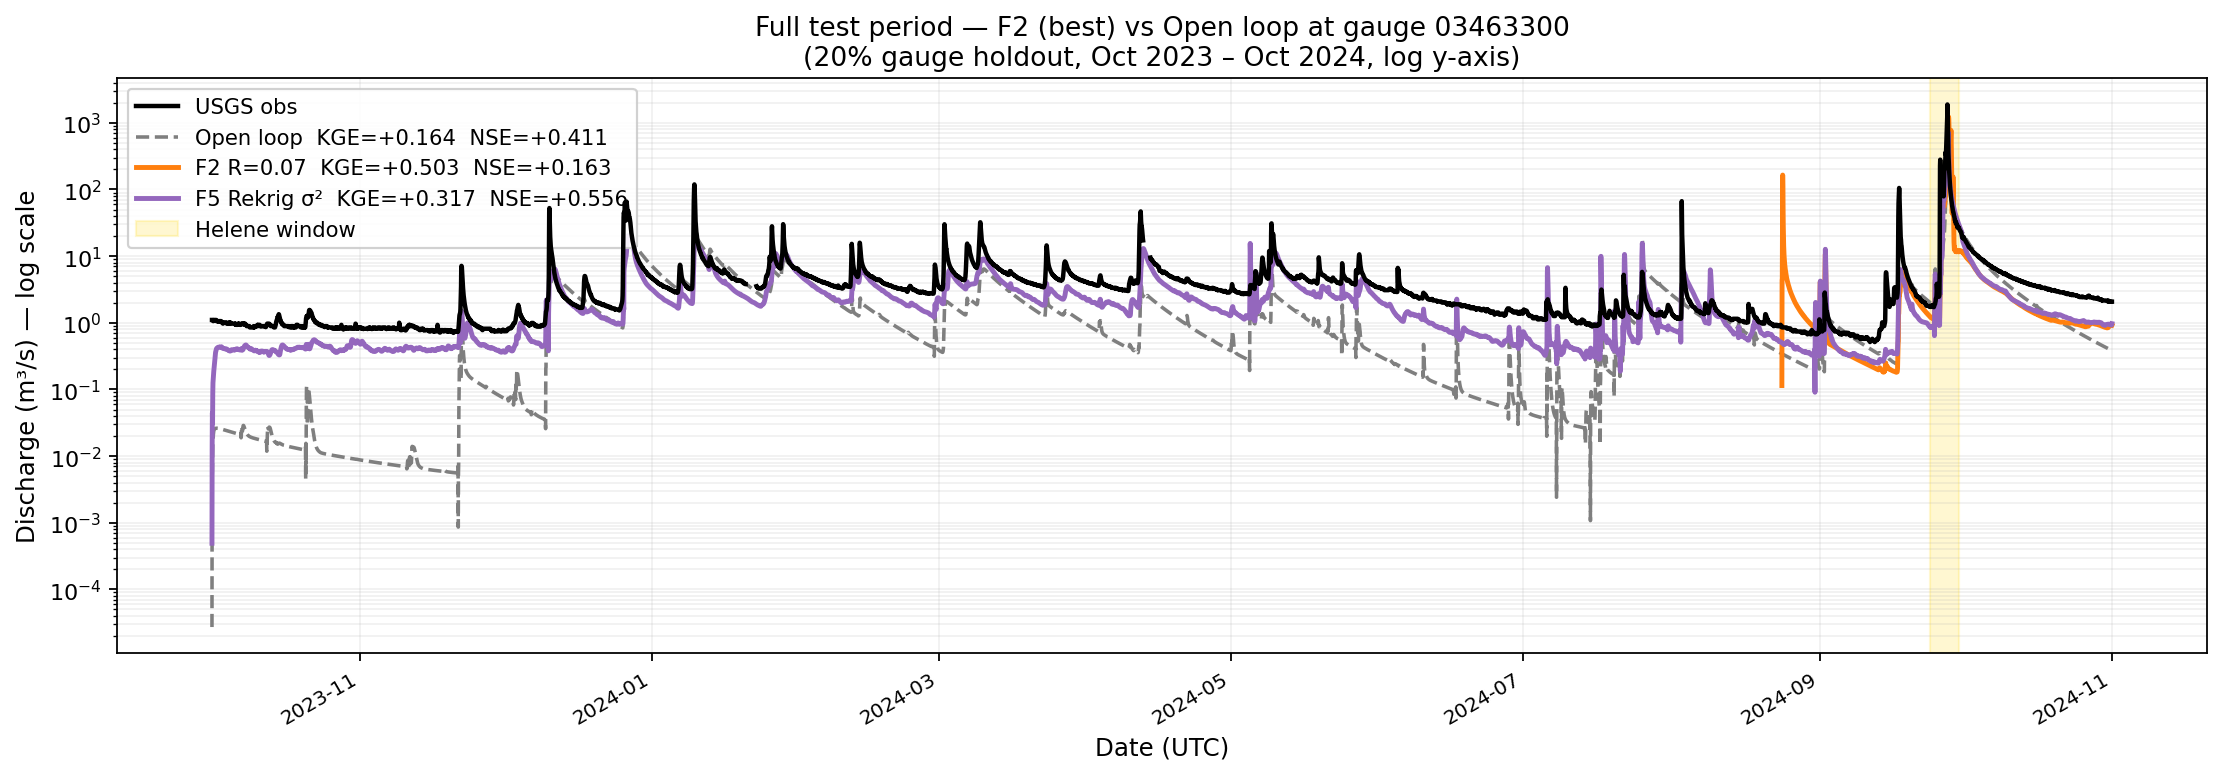
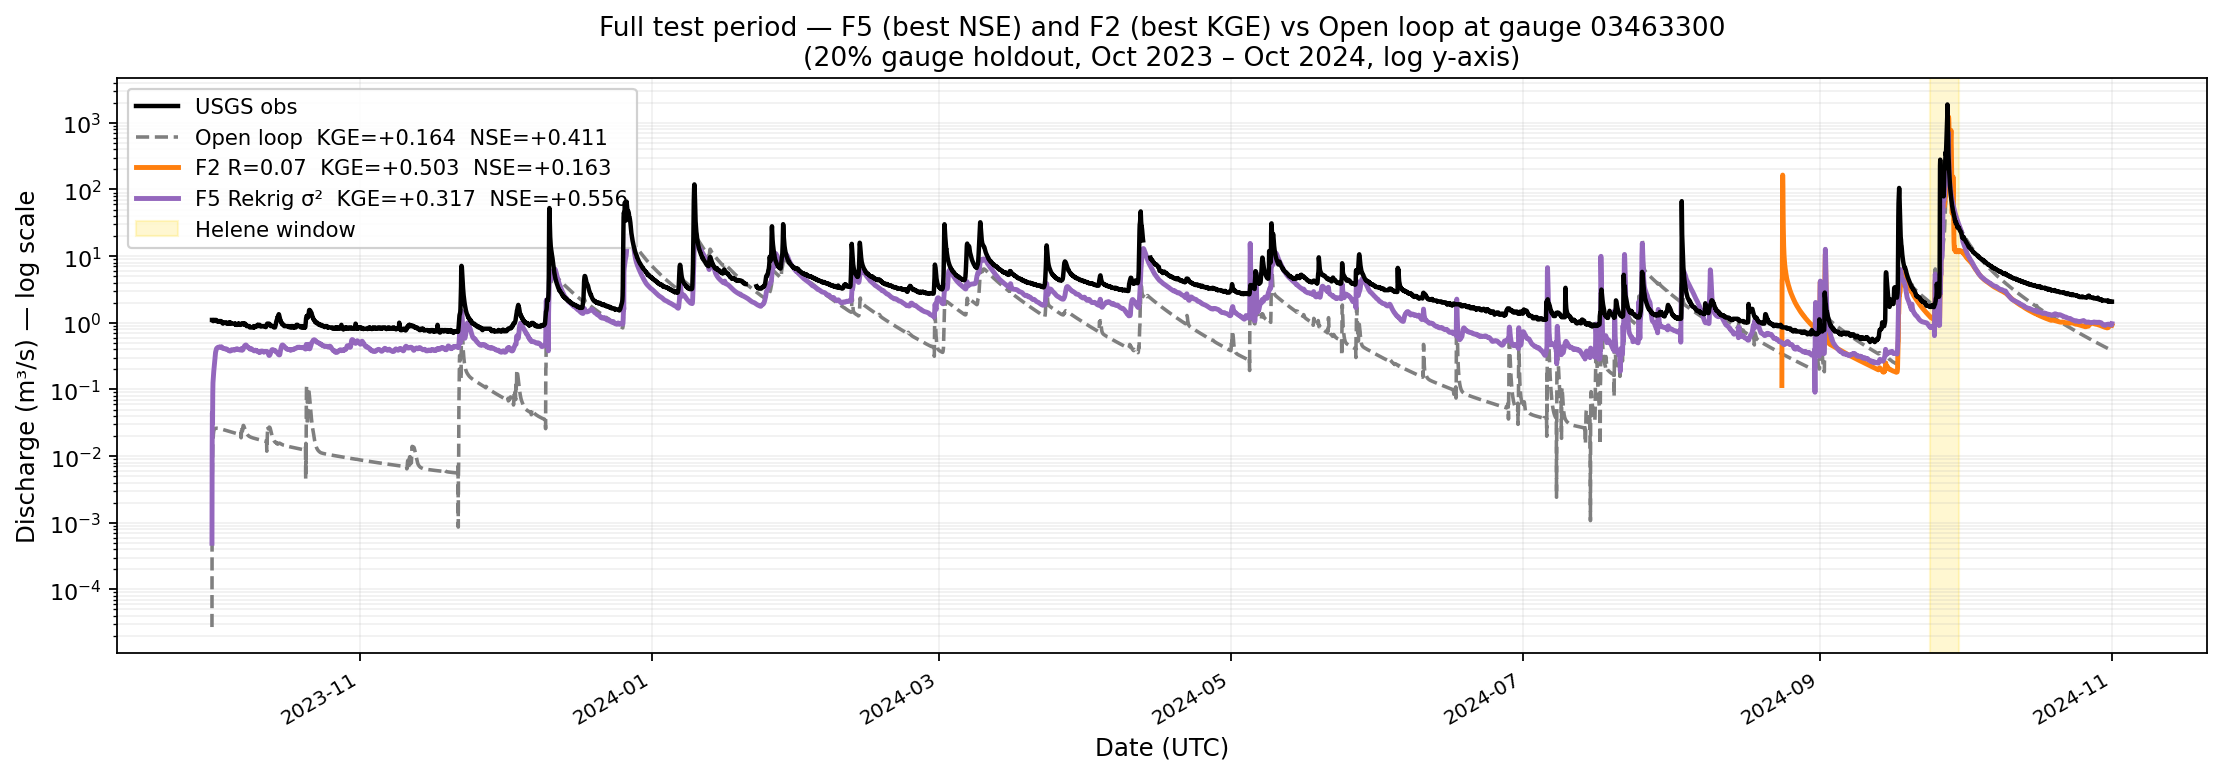
fix view1 plot title; add F5 lead-time NSE evaluation scripts (20pct holdout)
- update view1_full_log_f2_vs_ol.png: title now reads
  'F5 (best NSE) and F2 (best KGE) vs Open loop'
- add folder5_rekrig_variance_direct/4_evaluation/4a_error_decay/:
    plot_lead_time_nse_gauge_f5.py  — NSE vs lead time (pooled + regime split)
    run_4a_f5.sh                    — shell driver for the server

Changed region(s): [[0.2795, 0.0, 0.7763, 0.0619]]

diff --git a/da_methods/test_20pct_heldout_gauges/folder5_rekrig_variance_direct/4_evaluation/4a_error_decay/plot_lead_time_nse_gauge_f5.py b/da_methods/test_20pct_heldout_gauges/folder5_rekrig_variance_direct/4_evaluation/4a_error_decay/plot_lead_time_nse_gauge_f5.py
@@ -1,0 +1,234 @@
+"""
+plot_lead_time_nse_gauge_f5.py
+
+Gauge-level lead-time NSE decay for F5 (re-kriged variance, 20% holdout).
+
+Reads routed lead-time forecast parquets produced by run_lead_time_forecast_sweep.py
+(routed through run_route_leadtime_forecasts.py) and plots NSE vs lead time for
+the DA-on (F5) and open-loop ensembles at USGS gauge 03463300.
+
+NSE per lead time is computed by pooling all (issue_time, valid_time) pairs for
+that lead hour across the full test period, then:
+    NSE = 1 - sum((obs - ens_mean)^2) / sum((obs - mean(obs))^2)
+
+A second panel shows the regime split (Helene window vs. storm hours vs. low flow).
+
+Inputs:
+    <route-dir>/routed_leadtime_da_full.parquet
+    <route-dir>/routed_leadtime_openloop_full.parquet
+
+Output:
+    <out-dir>/lead_time_nse_gauge_f5_pooled.png
+    <out-dir>/lead_time_nse_gauge_f5_by_regime.png
+
+Run on server:
+    python3 plot_lead_time_nse_gauge_f5.py
+    python3 plot_lead_time_nse_gauge_f5.py --route-dir /path/to/routed --out-dir /path/to/out
+"""
+
+import argparse
+import os
+import numpy as np
+import pandas as pd
+import matplotlib.pyplot as plt
+
+DA_COLOR  = "tab:purple"
+OL_COLOR  = "tab:gray"
+
+DEFAULT_ROUTE_DIR = "/mnt/disk2/suma_helen_poster/da_results/da_forecast_f5_rekrig_20pct/routed"
+DEFAULT_USGS_CSV  = "/mnt/disk2/suma_helen_poster/03463300_usgs_hourly_2018_2024.csv"
+
+WATERSHED_AREA_KM2 = 113.18
+MM_H_TO_M3_S       = WATERSHED_AREA_KM2 * 1000.0 / 3600.0
+
+HELENE_START = pd.Timestamp("2024-09-24 00:00:00")
+HELENE_END   = pd.Timestamp("2024-09-28 23:00:00")
+STORM_THRESHOLD_M3S   = 20.0
+LOWFLOW_THRESHOLD_M3S =  5.0
+
+
+# ── I/O helpers ───────────────────────────────────────────────────────────────
+
+def load_parquet(path):
+    if not os.path.exists(path):
+        raise FileNotFoundError(path)
+    df = pd.read_parquet(path)
+    df['issue_time'] = pd.to_datetime(df['issue_time'])
+
+    if 'q_gauge_m3s' in df.columns and 'member' in df.columns:
+        return df[['issue_time', 'lead_hour', 'member', 'q_gauge_m3s']]
+
+    member_cols = sorted(c for c in df.columns if c.startswith('member_'))
+    if not member_cols:
+        raise ValueError(f"Cannot identify member columns in {path}. "
+                         f"Columns: {df.columns.tolist()}")
+    keep = ['issue_time', 'lead_hour']
+    long = df[keep + member_cols].melt(
+        id_vars=keep, value_vars=member_cols,
+        var_name='member', value_name='q_gauge_m3s')
+    return long
+
+
+def load_usgs(usgs_csv):
+    df = pd.read_csv(usgs_csv)
+    date_col = next(c for c in df.columns if c.lower() in ('datetime', 'date', 'time', 'timestamp'))
+    q_col    = next(c for c in df.columns if 'q' in c.lower() or 'flow' in c.lower()
+                    or 'discharge' in c.lower())
+    df[date_col] = pd.to_datetime(df[date_col])
+    series = df.set_index(date_col)[q_col].astype(float)
+    if 'mm' in q_col.lower():
+        series = series * MM_H_TO_M3_S
+        print(f"  Converted obs from mm/h ('{q_col}') → m³/s (×{MM_H_TO_M3_S:.4f})")
+    return series
+
+
+# ── NSE computation ───────────────────────────────────────────────────────────
+
+def nse_by_lead(df_long, obs_series, issue_mask=None):
+    """Return (leads, nse_values) pooling all issue times for each lead hour."""
+    df = df_long.copy()
+    if issue_mask is not None:
+        df = df[df['issue_time'].isin(issue_mask)]
+    if len(df) == 0:
+        return None, None
+
+    df['valid_time'] = df['issue_time'] + pd.to_timedelta(df['lead_hour'], unit='h')
+    df['obs'] = df['valid_time'].map(obs_series)
+    df = df.dropna(subset=['obs'])
+    if len(df) == 0:
+        return None, None
+
+    ens_mean = (df.groupby(['issue_time', 'lead_hour'])['q_gauge_m3s']
+                  .mean().reset_index(name='ens_mean'))
+    obs_per  = (df.groupby(['issue_time', 'lead_hour'])['obs']
+                  .first().reset_index(name='obs'))
+    panel = ens_mean.merge(obs_per, on=['issue_time', 'lead_hour'])
+
+    leads = sorted(panel['lead_hour'].unique())
+    nse_vals = []
+    for L in leads:
+        sub = panel[panel['lead_hour'] == L]
+        obs_v = sub['obs'].values
+        sim_v = sub['ens_mean'].values
+        denom = np.sum((obs_v - obs_v.mean()) ** 2)
+        nse_L = 1.0 - np.sum((obs_v - sim_v) ** 2) / denom if denom > 0 else np.nan
+        nse_vals.append(nse_L)
+
+    return np.asarray(leads), np.asarray(nse_vals)
+
+
+# ── Plots ──────────────────────────────────────────────────────────────────────
+
+def plot_pooled(out_path, leads_da, nse_da, leads_ol, nse_ol):
+    fig, ax = plt.subplots(figsize=(10, 5))
+
+    ax.plot(leads_da, nse_da, color=DA_COLOR, lw=2.4, marker='o',
+            zorder=4, label="F5 DA on (re-kriged σ²)")
+    ax.plot(leads_ol, nse_ol, color=OL_COLOR, lw=2.4, marker='s',
+            linestyle='--', zorder=4, label="Open loop (no DA)")
+
+    ax.axhline(0, color='black', lw=0.8, linestyle=':', alpha=0.5)
+    ax.set_xlabel("Forecast lead time (hours)", fontsize=11)
+    ax.set_ylabel("NSE (ensemble-mean vs USGS obs)", fontsize=11)
+    ax.set_title("Gauge-level lead-time NSE decay — F5 (re-kriged σ²), 20% holdout\n"
+                 "USGS 03463300  |  all issue times pooled (Oct 2023 – Oct 2024)", fontsize=12)
+    ax.set_xticks(np.arange(1, int(max(leads_da)) + 1))
+    ax.set_ylim(-0.1, 1.05)
+    ax.grid(True, alpha=0.25)
+    ax.legend(fontsize=10, loc='lower left', frameon=True, framealpha=0.92)
+
+    plt.tight_layout()
+    plt.savefig(out_path, dpi=160, bbox_inches="tight")
+    plt.close()
+    print(f"Saved: {out_path}")
+
+
+def plot_by_regime(out_path, regime_results):
+    n = len(regime_results)
+    fig, axes = plt.subplots(1, n, figsize=(6 * n, 5), sharey=True)
+    if n == 1:
+        axes = [axes]
+
+    for ax, (label, n_issue, res_da, res_ol) in zip(axes, regime_results):
+        if res_da[0] is None:
+            ax.set_title(f"{label}\n(no issue times)", fontsize=10)
+            ax.axis('off')
+            continue
+        leads_da, nse_da = res_da
+        leads_ol, nse_ol = res_ol
+        ax.plot(leads_da, nse_da, color=DA_COLOR, lw=2.2, marker='o',
+                label="F5 DA on")
+        ax.plot(leads_ol, nse_ol, color=OL_COLOR, lw=2.2, marker='s',
+                linestyle='--', label="Open loop")
+        ax.axhline(0, color='black', lw=0.8, linestyle=':', alpha=0.5)
+        ax.set_title(f"{label}\n({n_issue} issue times)", fontsize=10)
+        ax.set_xlabel("Lead time (hours)", fontsize=10)
+        ax.set_xticks(np.arange(1, int(max(leads_da)) + 1))
+        ax.grid(True, alpha=0.25)
+        ax.legend(fontsize=9, loc='lower left', frameon=True, framealpha=0.9)
+
+    axes[0].set_ylabel("NSE (ensemble-mean vs USGS obs)", fontsize=11)
+    fig.suptitle("Lead-time NSE decay by regime — F5 (re-kriged σ²), USGS 03463300, 20% holdout",
+                 fontsize=12, y=1.01)
+    plt.tight_layout()
+    plt.savefig(out_path, dpi=160, bbox_inches="tight")
+    plt.close()
+    print(f"Saved: {out_path}")
+
+
+# ── Main ──────────────────────────────────────────────────────────────────────
+
+def main():
+    parser = argparse.ArgumentParser()
+    parser.add_argument('--route-dir', default=DEFAULT_ROUTE_DIR)
+    parser.add_argument('--out-dir',   default=None)
+    parser.add_argument('--usgs-csv',  default=DEFAULT_USGS_CSV)
+    parser.add_argument('--da-name',   default='routed_leadtime_da_full.parquet')
+    parser.add_argument('--ol-name',   default='routed_leadtime_openloop_full.parquet')
+    args = parser.parse_args()
+
+    out_dir = args.out_dir or args.route_dir
+    os.makedirs(out_dir, exist_ok=True)
+
+    print("Loading parquets...")
+    df_da = load_parquet(os.path.join(args.route_dir, args.da_name))
+    df_ol = load_parquet(os.path.join(args.route_dir, args.ol_name))
+    obs   = load_usgs(args.usgs_csv)
+
+    print(f"DA rows: {len(df_da):,}  |  OL rows: {len(df_ol):,}")
+
+    # ---- Pooled NSE ----
+    leads_da, nse_da = nse_by_lead(df_da, obs)
+    leads_ol, nse_ol = nse_by_lead(df_ol, obs)
+    plot_pooled(
+        os.path.join(out_dir, "lead_time_nse_gauge_f5_pooled.png"),
+        leads_da, nse_da, leads_ol, nse_ol)
+
+    # ---- Regime split ----
+    issue_times = pd.to_datetime(sorted(df_da['issue_time'].unique()))
+    obs_at_issue = pd.Series(issue_times, index=issue_times).map(obs)
+
+    helene_mask  = (issue_times >= HELENE_START) & (issue_times <= HELENE_END)
+    storm_mask   = obs_at_issue > STORM_THRESHOLD_M3S
+    lowflow_mask = obs_at_issue < LOWFLOW_THRESHOLD_M3S
+
+    regime_results = []
+    for label, mask in [
+        (f"Helene window (Sep 24–28 2024)",                  helene_mask),
+        (f"Storm hours (obs > {STORM_THRESHOLD_M3S:.0f} m³/s)",   storm_mask),
+        (f"Low flow (obs < {LOWFLOW_THRESHOLD_M3S:.0f} m³/s)",    lowflow_mask),
+    ]:
+        kept = set(pd.to_datetime(issue_times[mask]))
+        res_da = nse_by_lead(df_da, obs, kept)
+        res_ol = nse_by_lead(df_ol, obs, kept)
+        regime_results.append((label, len(kept), res_da, res_ol))
+
+    plot_by_regime(
+        os.path.join(out_dir, "lead_time_nse_gauge_f5_by_regime.png"),
+        regime_results)
+
+    print("Done.")
+
+
+if __name__ == "__main__":
+    main()
